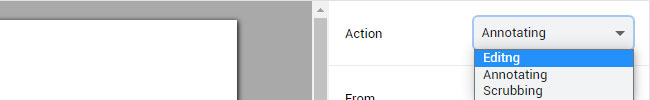
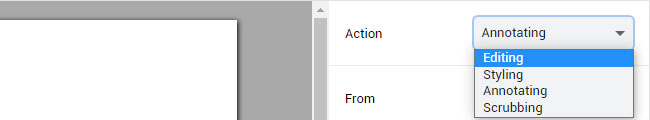
Updated README and user guide for version 1.2.

diff --git a/_locales/en/user-guide.html b/_locales/en/user-guide.html
@@ -38,6 +38,12 @@
     <p><img src="https://raw.githubusercontent.com/chung-leong/conradish-x/master/doc/img/action-2.jpg" alt="Action drop-down"></p>
     <p>Click the <b>Finish</b> button to return to annotation mode.</p>
     <h2>Applying text style</h2>
+    <p>To apply text style to the document, choose "Styling" in the <b>Action</b> drop-down in the side-bar:</p>
+    <p><img src="https://raw.githubusercontent.com/chung-leong/conradish-x/master/doc/img/action-3.jpg" alt="Action drop-down"></p>
+    <p>If you wish to change the size of a heading, place the text cursor inside it, then click one of the buttons in the tool-bar that appears below:</p>
+    <p><img src="https://raw.githubusercontent.com/chung-leong/conradish-x/master/doc/img/styling-1.jpg" alt="Block style toolbar"></p>
+    <p>If you wish to bold or underline a word, select the word, then click the applicable button in the tool-bar that appears underneath:</p>
+    <p><img src="https://raw.githubusercontent.com/chung-leong/conradish-x/master/doc/img/styling-2.jpg" alt="Inline style toolbar"></p>
     <p>The following hot-keys can be used to add basic text style:</p>
     <table>
       <thead>

diff --git a/README.md b/README.md
@@ -104,7 +104,19 @@ Click the **Finish** button to return to annotation mode.
 
 ## Applying text style
 
-The following hot-keys can be used to add basic text style:
+To apply text style to the document, choose "Styling" in the **Action** drop-down in the side-bar:
+
+![Action drop-down](doc/img/action-3.jpg)
+
+If you wish to change the size of a heading, place the text cursor inside it, then click one of the buttons in the tool-bar that appears below:
+
+![Block style toolbar](doc/img/styling-1.jpg)
+
+If you wish to bold or underline a word, select the word, then click the applicable button in the tool-bar that appears underneath:
+
+![Inline style toolbar](doc/img/styling-2.jpg)
+
+You can also use the following hot-keys:
 
 | Hot-key              | Text style        |
 |----------------------|-------------------|
@@ -121,7 +133,7 @@ The following hot-keys can be used to add basic text style:
 | **Ctrl-4**           | Heading 4         |
 | **Ctrl-5**           | Heading 5         |
 | **Ctrl-6**           | Heading 6         |
-| **Ctrl-0**           | Regular text      |
+| **Ctrl-0**           | Regular paragraph |
 
 ## Finding missing text
 
